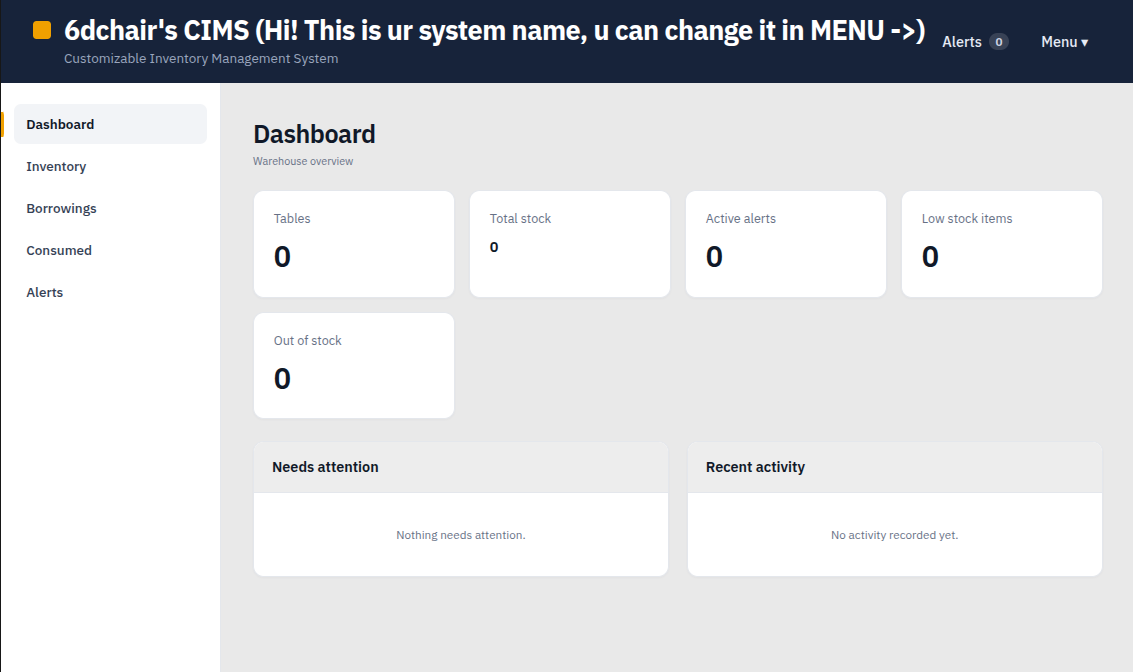
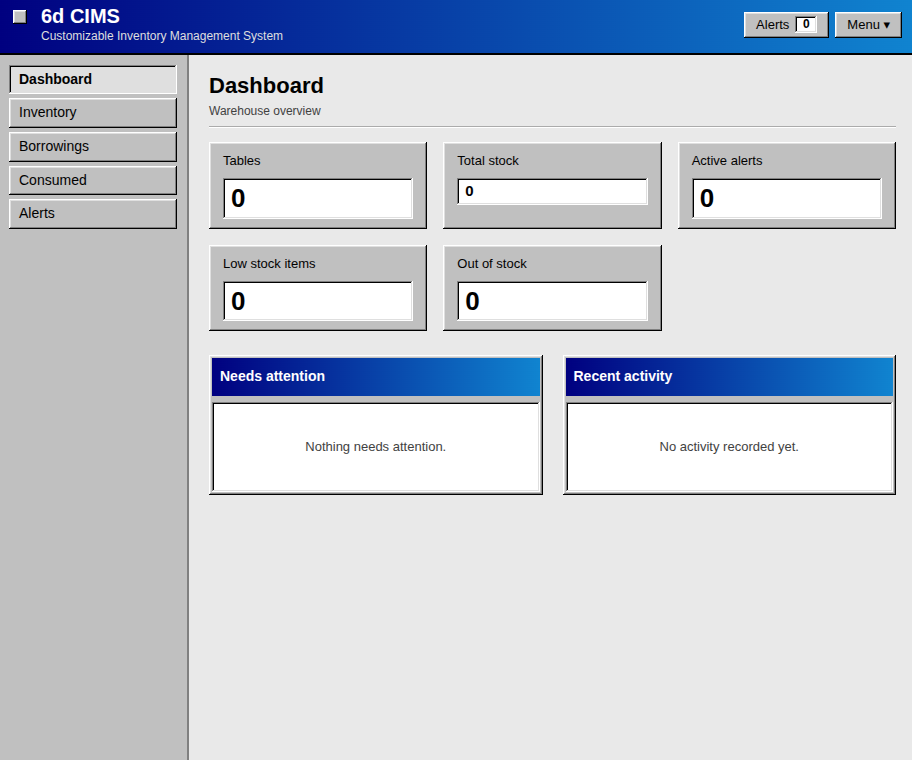
change project photo

diff --git a/index.html b/index.html
@@ -1072,7 +1072,7 @@
           <div class="project-thumb">
             <img
               src="images/p13.png"
-              alt="Prototype Zero">
+              alt="6dMetrix: Sales Intelligence">
           </div>
 
           <h3>
@@ -1151,7 +1151,7 @@
           </div>
 
           <h3>
-            6d CIMS: Customizable Inventory Mgt System
+            6dCIMS: Customizable Inventory Mgt System
           </h3>
 
           <p>
